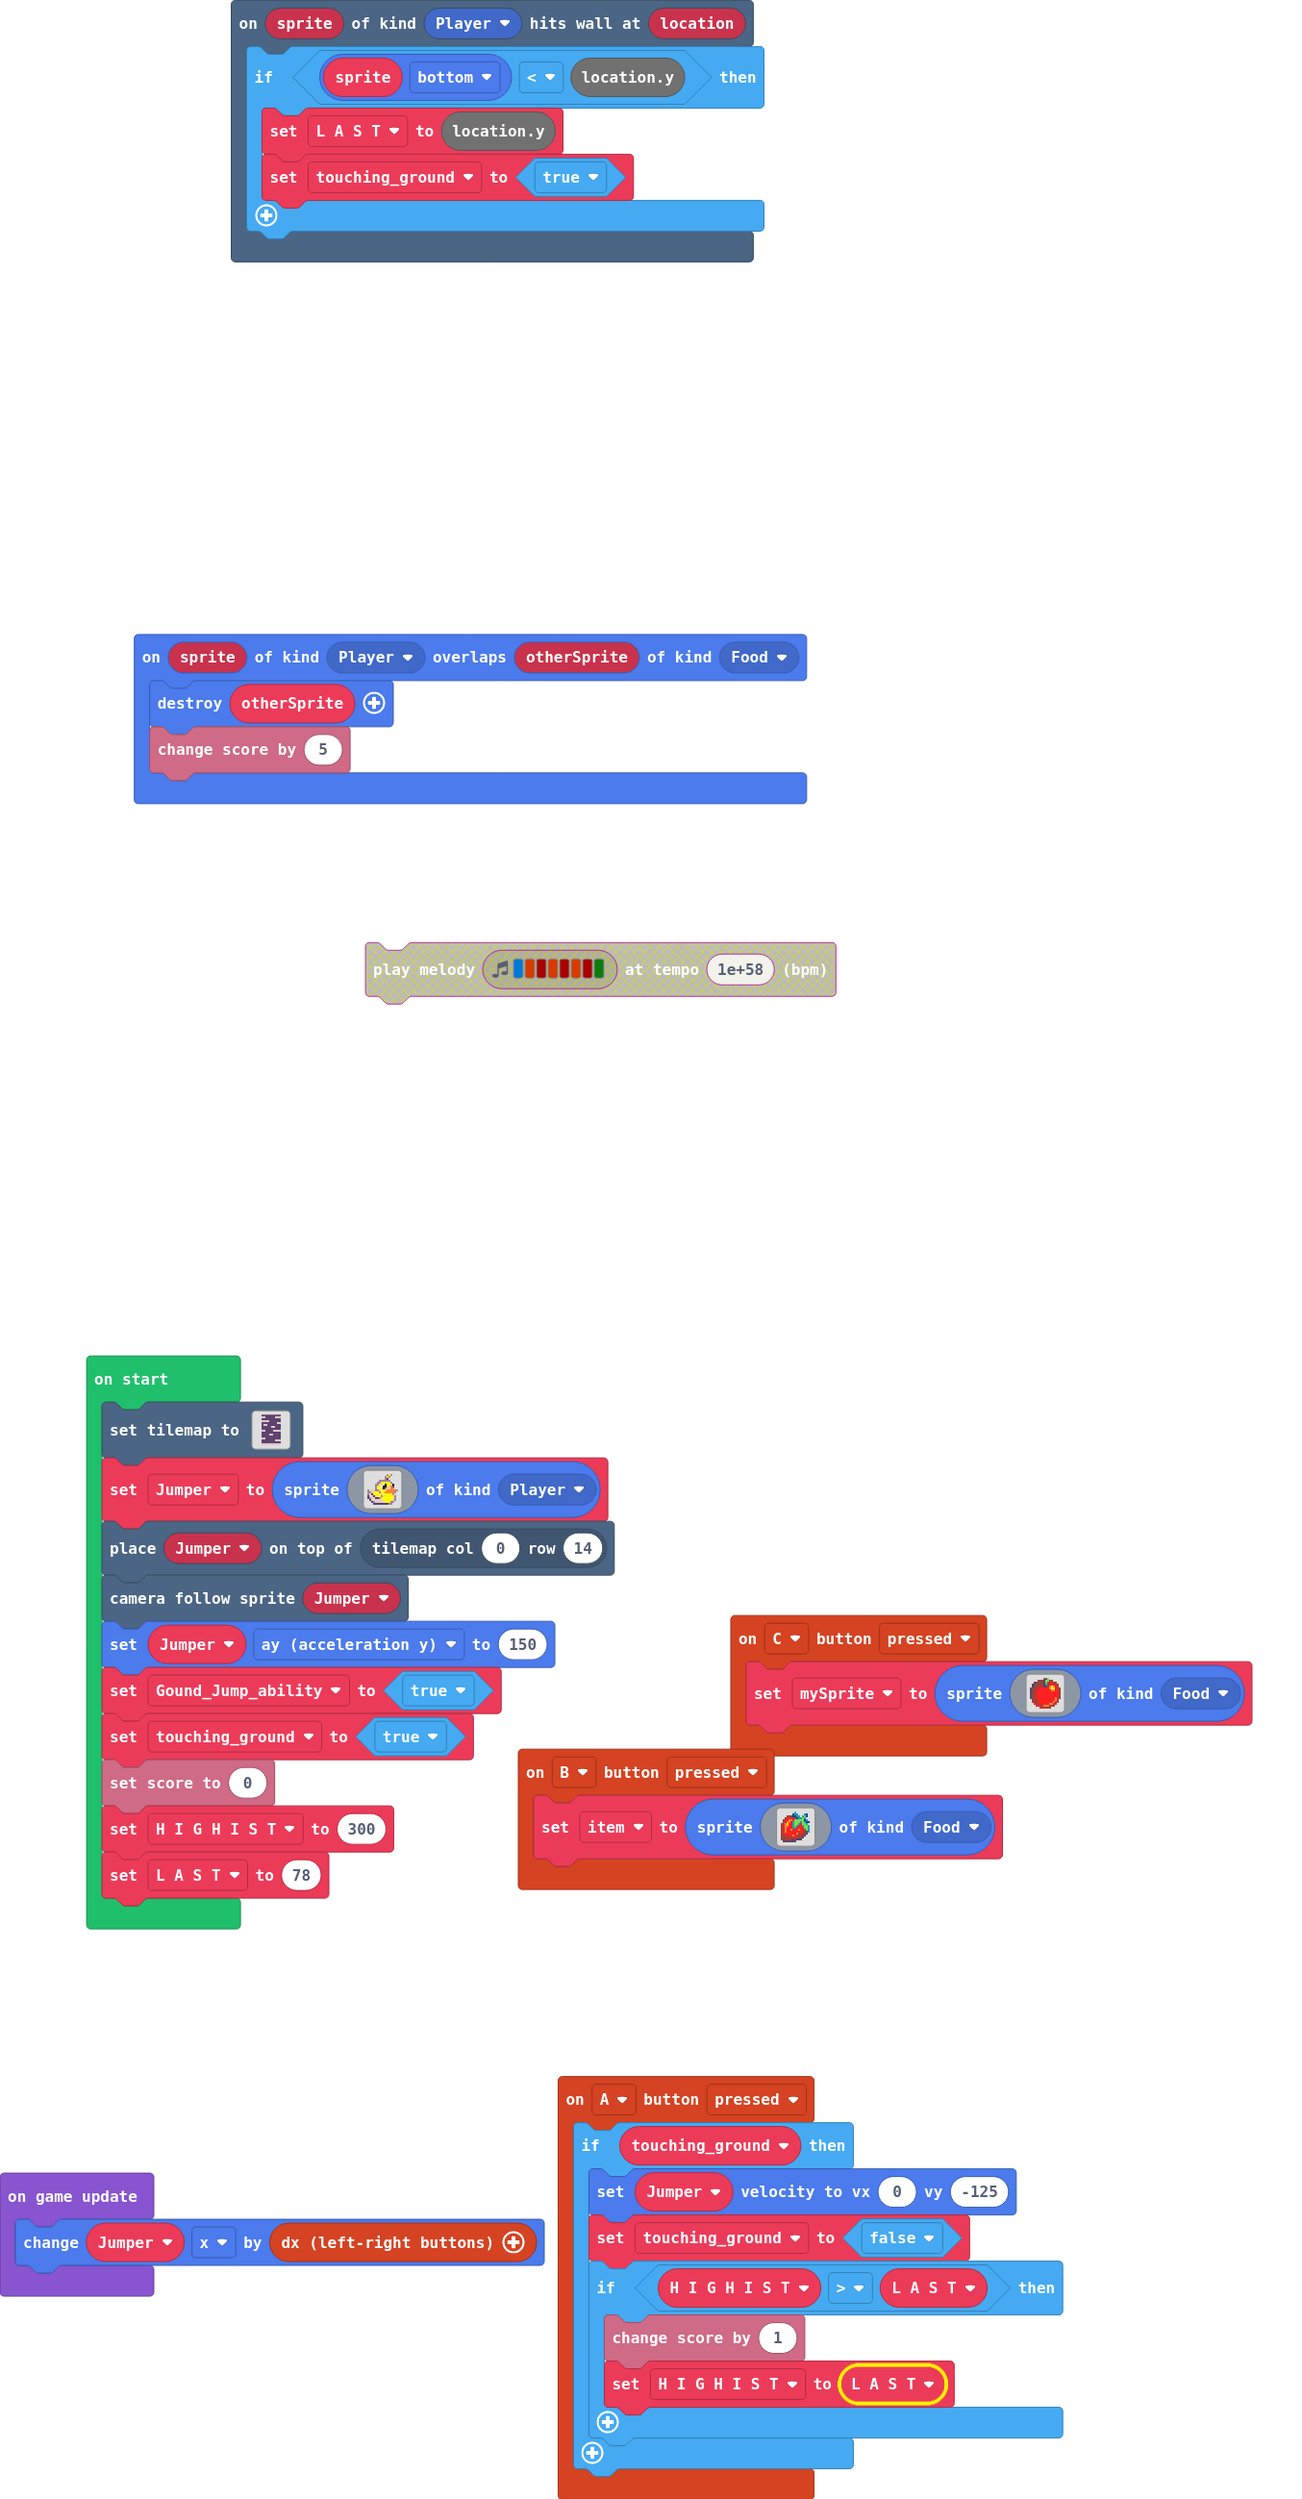
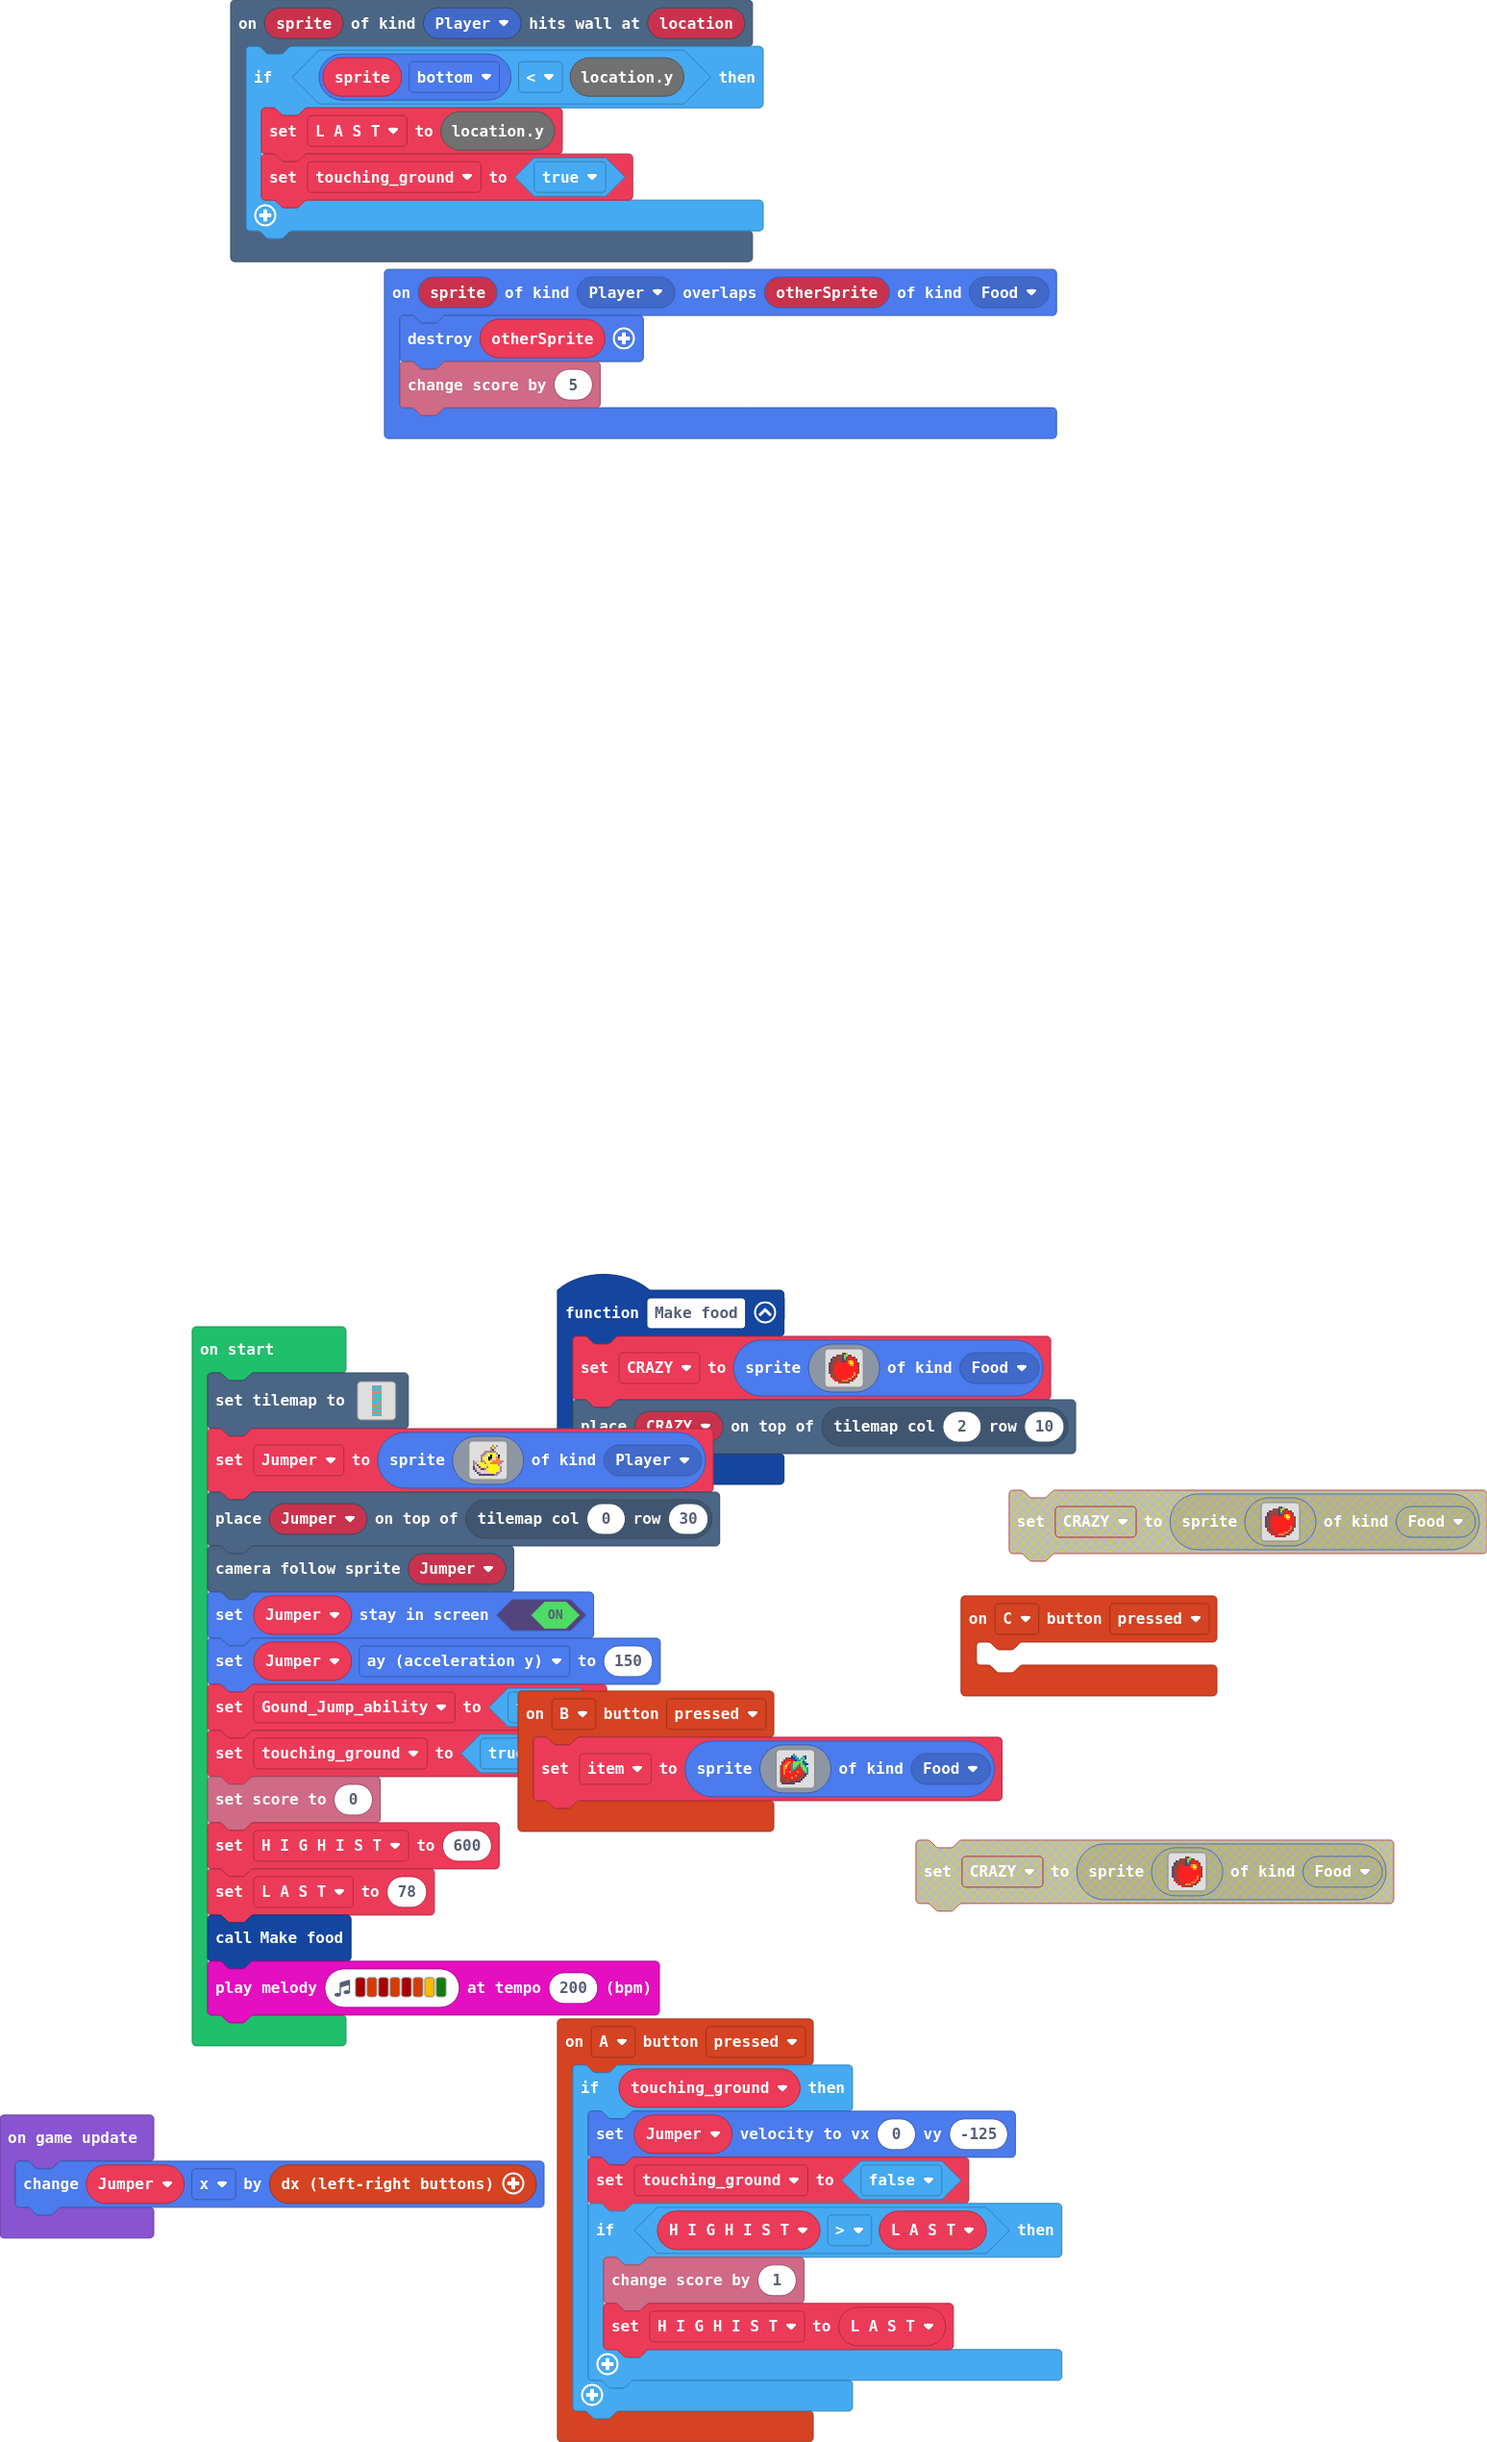
most things in this game

diff --git a/tilemap.g.ts b/tilemap.g.ts
@@ -27,25 +27,6 @@ namespace myTiles {
 
     helpers._registerFactory("tilemap", function(name: string) {
         switch(helpers.stringTrim(name)) {
-            case "level1":
[1 lines of base64/hex data omitted]
-. . . . . . . . . . 
-2 2 . . . . . 2 2 2 
-. . . . . . . . . . 
-2 2 2 2 . . . . . . 
-. . . . . . . . 2 2 
-. 2 2 . . . . . . . 
-. . . . . 2 2 . . . 
-. . . . . . . . . . 
-2 2 . . . . 2 2 2 2 
-. . . . . . . . . . 
-. . . . 2 2 . . . . 
-. . . . . . . . . . 
-2 2 . . . . . . . . 
-. . . . . . . 2 2 2 
-. . . . . . . . . . 
-2 2 2 2 2 2 2 2 2 2 
-`, [myTiles.transparency16,sprites.dungeon.darkGroundCenter,sprites.dungeon.floorLight0], TileScale.Sixteen);
             case "level4":
             case "level4":return tiles.createTilemap(hex`1000100000000000000000000000000000000000000000000000000000000000000000000000000000000000000000000000000000000000000000000000000000000000000000000000000000000000000000000000000000000000000000000000000000000000000000000000000000000000000000000000000000000000000000000000000000000000000000000000000000000000000000000000000000000000000000000000000000000000000000000000000000000000000000000000000000000000000000000000000000000000000000000000000000000000000000000000000000000000000000000000000000000000000000000000000000000000`, img`
 . . . . . . . . . . . . . . . . 
@@ -119,33 +100,87 @@ namespace myTiles {
 ..........
 ..........
 `, [myTiles.transparency16,myTiles.tile3,myTiles.tile10,myTiles.tile11], TileScale.Sixteen);
+            case "fruit tillemap":
+            case "level2":return tiles.createTilemap(hex`2000200000000000000000000000000000000000000000000000000000000000000000000000000000000000000000000000000000000000000000000000000000000000000000000000000000000000000000000000000000000000000000000000000000000000000000000000000000000000000000000000000000000000000000000000000000000000000000000000000000000000000000000000000000000000000000000000000000000000000000000000000000000000000000000000000000000000000000000000000000000000000000000000000000000000000000000000000000000000000000000000000000000000000000000000000000000000000000000000000000000000000000000000000000000000000000000000000000000000000000000000000000000000000000000000000000000000000000000000000000000000000000000000000000000000000000000000000000000000000000000000000000000000000000000000000000000000000000000000000000000000000000000000000000000000000000000000000000000000000000000000000000000000000000000000000000000000000000000000000000000000000000000000000000000000000000000000000000000000000000000000000000000000000000000000000000000000000000000000000000000000000000000000000000000000000000000000000000000000000000000000000000000000000000000000000000000000000000000000000000000000000000000000000000000000000000000000000000000000000000000000000000000000000000000000000000000000000000000000000000000000000000000000000000000000000000000000000000000000000000000000000000000000000000000000000000000000000000000000000000000000000000000000000000000000000000000000000000000000000000000000000000000000000000000000000000000000000000000000000000000000000000000000000000000000000000000000000000000000000000000000000000000000000000000000000000000000000000000000000000000000000000000000000000000000000000000000000000000000000000000000000000000000000000000000000000000000000000000000000000000000000000000000000000000000000000000000000000000000000000000000000000000000000000000000000000000000000000000000000000000000000000000000000000000000000000000000000000000000000000000000000000000000000000000000000000000000000000000000000000000000000000000000000000000000000000000000000000000000000000000000000000000000`, img`
+....................222222222222
+....................222.22222222
+...................222.2222.2222
+...................222.222222222
+..................222..222222222
+.................222..2222222222
+................2222..2222222222
+...............2222.2.2222222222
+............2.22222...2222222222
+............22..2..2..2222222222
+............22..2.22..222222222.
+...........2.2....2.2.2222222222
+.........2.2.....22..22222222222
+.........222..2.222.222222222222
+............2.2.222.222222222222
+...........22.2.2222222222222222
+...........22.2.2222222222222222
+...........22.2.2222222222222222
+...........222.22222222222222222
+...........222.22222222222222222
+...........222.22222222222222222
+............22.22222222222222222
+.............2.22222222222222222
+........2..22.222222222222222222
+...........222222222222222222222
+.......2222222222222222222222222
+......22222222222222222222222222
+......22222222222222222222222222
+.....222222222222222222222222222
+....2222222222222222222222222222
+...22222222222222222222222222222
+..........2222222222222222222222
+`, [myTiles.transparency16], TileScale.Sixteen);
+            case "level7":
+            case "level7":return tiles.createTilemap(hex`1000100000000000000000000000000000000000000000000000000000000000000000000000000000000000000000000000000000000000000000000000000000000000000000000000000000000000000000000000000000000000000000000000000000000000000000000000000000000000000000000000000000000000000000000000000000000000000000000000000000000000000000000000000000000000000000000000000000000000000000000000000000000000000000000000000000000000000000000000000000000000000000000000000000000000000000000000000000000000000000000000000000000000000000000000000000000000`, img`
+. . . . . . . . . . . . . . . . 
+. . . . . . . . . . . . . . . . 
+. . . . . . . . . . . . . . . . 
+. . . . . . . . . . . . . . . . 
+. . . . . . . . . . . . . . . . 
+. . . . . . . . . . . . . . . . 
+. . . . . . . . . . . . . . . . 
+. . . . . . . . . . . . . . . . 
+. . . . . . . . . . . . . . . . 
+. . . . . . . . . . . . . . . . 
+. . . . . . . . . . . . . . . . 
+. . . . . . . . . . . . . . . . 
+. . . . . . . . . . . . . . . . 
+. . . . . . . . . . . . . . . . 
+. . . . . . . . . . . . . . . . 
+. . . . . . . . . . . . . . . . 
+`, [myTiles.transparency16], TileScale.Sixteen);
             case "level6":
[2 lines of base64/hex data omitted]
 ..........
-..........
+.......222
 22........
 ..........
-..........
+.....22...
 ..........
 ..........
 22222..222
 ..........
 ..........
+......2222
 ..........
 ..........
 2222......
 ..........
 ..........
-..........
 222222..22
 ..........
-..........
-..........
-22........
-..........
+.......222
+222.......
 ......2222
 ..........
+22222.....
 ..........
+....222222
 222.......
 ..........
 ..........
@@ -154,41 +189,44 @@ namespace myTiles {
 ..........
 2222222222
 `, [myTiles.transparency16,sprites.dungeon.collectibleInsignia,sprites.dungeon.collectibleRedCrystal], TileScale.Sixteen);
-            case "fruit tillemap":
-            case "level2":return tiles.createTilemap(hex`2000200003020707070707070707000000000000000000000000000000000000000000000203020707070707070700000000000000000000000000000000000000000000060203020707070707070000000000000000000000000000000000000000000006060203020707070707000000000000000000000000000000000000000000000606060203020707070700000000000000000000000000000000000000000000060606060203010101010000000000000000000000000000000000000000000006060606060405050505000000000000000000000000000000000000000000000604040406040505050500000000000000000000000000000000000000000000060606060604050505050000000000000000000000000000000000000000000006060606060405050505000000000000000000000000000000000000000000000606060606040505050500000000000000000000000000000000000000000000060606060604050505050000000000000000000000000000000000000000000006060606060405050505000000000000000000000000000000000000000000000606060608040505050500000000000000000000000000000000000000000000060606080204050505050000000000000000000000000000000000000000000006060802020405050505000000000000000000000000000000000000000000000006060802040505050500000000000000000000000000000000000000000000060606060804050505050000000000000000000000000000000000000000000006060606060405050505000000000000000000000000000000000000000000000606060606040505050500000000000000000000000000000000000000000000060606060604050505050000000000000000000000000000000000000000000006060606060405050505000000000000000000000000000000000000000000000606060606040505050500000000000000000000000000000000000000000000060606060604050505050000000000000000000000000000000000000000000006060606060405050505000000000000000000000000000000000000000000000606060606040505050500000000000000000000000000000000000000000000060606060203010101010000000000000000000000000000000000000000000006060602030207070707000000000000000000000000000000000000000000000606020302070707070700000000000000000000000000000000000000000000060203020707070707070000000000000000000000000000000000000000000002030207070707070707000000000000000000000000000000000000000000000404040404040404040400000000000000000000000000000000000000000000`, img`
-22222222222222222222222222222222
-22222222222222222222222222222222
-22222222222222222222222222222222
-222.2222222222222222222222222222
-22222222222222222222222222222222
-22222222222222222222222222222222
-22222222222222222222222222222222
-22222222222222222222222222222222
-22222222222222222222222222222222
-22222222222222222222222222222222
-22222222222222222222222222222222
-22222222222222222222222222222222
-22222222222222222222222222222222
-22222222222222222222222222222222
-22222222222222222222222222222222
-22222222222222222222222222222222
-22222222222222222222222222222222
-22222222222222222222222222222222
-22222222222222222222222222222222
-22222222222222222222222222222222
-22222222222222222222222222222222
-22222222222222222222222222222222
-22222222222222222222222222222222
-22222222222222222222222222222222
-22222222222222222222222222222222
-22222222222222222222222222222222
-22222222222222222222222222222222
-22222222222222222222222222222222
-22222222222222222222222222222222
-22222222222222222222222222222222
-22222222222222222222222222222222
-22........2222222222222222222222
-`, [myTiles.transparency16,myTiles.tile2,myTiles.tile3,myTiles.tile4,myTiles.tile1,myTiles.tile7,myTiles.tile8,myTiles.tile9,myTiles.tile11], TileScale.Sixteen);
+            case "level0":
[1 lines of base64/hex data omitted]
+. . . . . . . . . . 
+2 2 . . . . . 2 2 2 
+. . . . . . . . . . 
+2 2 2 2 . . . . . . 
+. . . . . . . . 2 2 
+. 2 2 . . . . . . . 
+. . . . . 2 2 . . . 
+. . . . . . . . . . 
+2 2 . . . . 2 2 2 2 
+. . . . . . . . . . 
+. . . . 2 2 . . . . 
+. . . . . . . . . . 
+2 2 . . . . . . . . 
+. . . . . . . 2 2 2 
+. . . . . . . . . . 
+2 2 2 2 2 2 2 2 2 2 
+`, [myTiles.transparency16,sprites.dungeon.floorLight0,sprites.dungeon.hazardLava0,sprites.swamp.swampTile13,sprites.swamp.swampTile9], TileScale.Sixteen);
+            case "level8":
+            case "level8":return tiles.createTilemap(hex`1000100000000000000000000000000000000000000000000000000000000000000000000000000000000000000000000000000000000000000000000000000000000000000000000000000000000000000000000000000000000000000000000000000000000000000000000000000000000000000000000000000000000000000000000000000000000000000000000000000000000000000000000000000000000000000000000000000000000000000000000000000000000000000000000000000000000000000000000000000000000000000000000000000000000000000000000000000000000000000000000000000000000000000000000000000000000000`, img`
+. . . . . . . . . . . . . . . . 
+. . . . . . . . . . . . . . . . 
+. . . . . . . . . . . . . . . . 
+. . . . . . . . . . . . . . . . 
+. . . . . . . . . . . . . . . . 
+. . . . . . . . . . . . . . . . 
+. . . . . . . . . . . . . . . . 
+. . . . . . . . . . . . . . . . 
+. . . . . . . . . . . . . . . . 
+. . . . . . . . . . . . . . . . 
+. . . . . . . . . . . . . . . . 
+. . . . . . . . . . . . . . . . 
+. . . . . . . . . . . . . . . . 
+. . . . . . . . . . . . . . . . 
+. . . . . . . . . . . . . . . . 
+. . . . . . . . . . . . . . . . 
+`, [myTiles.transparency16], TileScale.Sixteen);
         }
         return null;
     })

diff --git a/main.ts b/main.ts
@@ -7,6 +7,10 @@ scene.onHitWall(SpriteKind.Player, function (sprite, location) {
 controller.B.onEvent(ControllerButtonEvent.Pressed, function () {
     item = sprites.create(assets.image`smallStrawberry`, SpriteKind.Food)
 })
+function Make_food () {
+    CRAZY = sprites.create(assets.image`smallApple`, SpriteKind.Food)
+    tiles.placeOnTile(CRAZY, tiles.getTileLocation(2, 10))
+}
 controller.A.onEvent(ControllerButtonEvent.Pressed, function () {
     if (touching_ground) {
         Jumper.setVelocity(0, -125)
@@ -18,28 +22,31 @@ controller.A.onEvent(ControllerButtonEvent.Pressed, function () {
     }
 })
 controller.C.onEvent(ControllerButtonEvent.Pressed, function () {
-    mySprite = sprites.create(assets.image`smallApple`, SpriteKind.Food)
+	
 })
 sprites.onOverlap(SpriteKind.Player, SpriteKind.Food, function (sprite, otherSprite) {
     otherSprite.destroy()
     info.changeScoreBy(5)
 })
-let mySprite: Sprite = null
+let CRAZY: Sprite = null
 let item: Sprite = null
 let L_A_S_T = 0
 let H_I_G_H_I_S_T = 0
 let touching_ground = false
 let Jumper: Sprite = null
-tiles.setTilemap(tilemap`level1`)
+tiles.setTilemap(tilemap`level6`)
 Jumper = sprites.create(assets.image`Ducky`, SpriteKind.Player)
-tiles.placeOnTile(Jumper, tiles.getTileLocation(0, 14))
+tiles.placeOnTile(Jumper, tiles.getTileLocation(0, 30))
 scene.cameraFollowSprite(Jumper)
+Jumper.setStayInScreen(true)
 Jumper.ay = 150
 let Gound_Jump_ability = true
 touching_ground = true
 info.setScore(0)
-H_I_G_H_I_S_T = 300
+H_I_G_H_I_S_T = 600
 L_A_S_T = 78
+Make_food()
+music.playMelody("C5 B C5 B C5 B A G ", 200)
 game.onUpdate(function () {
     Jumper.x += controller.dx()
 })
